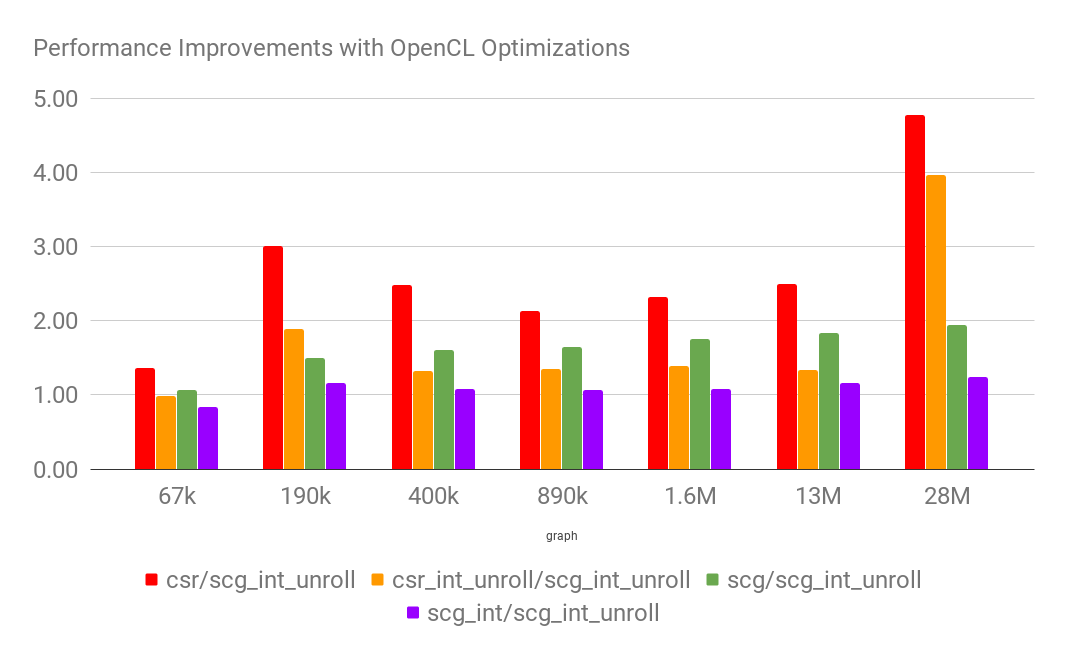
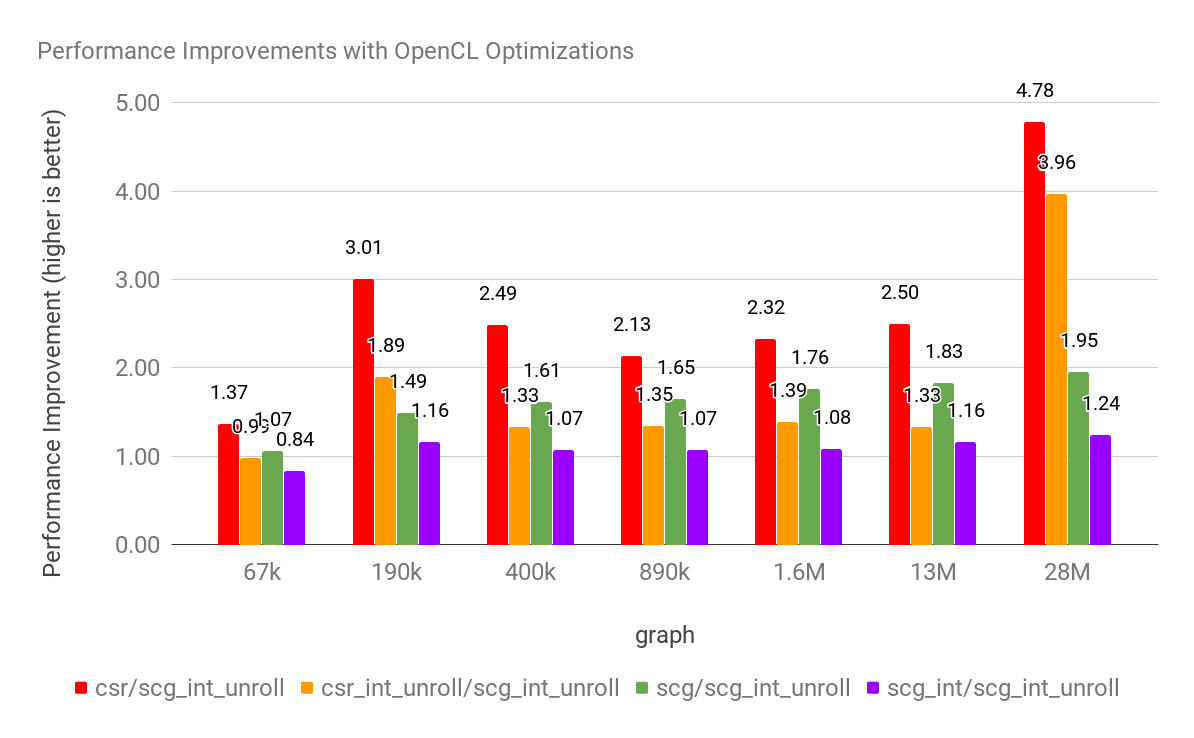
first draft

diff --git a/presentation.tex b/presentation.tex
@@ -578,52 +578,63 @@ Rensselaer Polytechnic Institute
 
 \begin{frame}
   \frametitle{Algorithms}
-\end{frame}
-
-\begin{frame}
-  \frametitle{Example}
-  Our current N-Graph data structure is two sets of compressed sparse row (CSR)
-  structures
+  The following variations of BFS were tested
+  \begin{itemize}
+    \item push - C++ serial push
+    \item pull - C++ serial `pull' style vtx$\rightarrow$hyperedge
+    \item csr - OpenCL parallel `pull' style vtx$\rightarrow$hyperedge using CSR data
+      structure
+    \item scg - OpenCL parallel `pull' style vtx$\rightarrow$hyperedge using
+      Sell-C-Sigma data structure
+    \item \texttt{*\_int} - use 4B int for adjacency and degree lists instead of 8B long
+    \item \texttt{*\_unroll} - unroll the loop over hyperedges
+  \end{itemize}
   \begin{figure}
     \centering
-    \includegraphics[width=.4\textwidth]{figures/hypergraph.eps}
-  \end{figure}  
-  {\tiny
-  \begin{table}[]
-    \centering
-    \label{my-label}
-    \begin{tabular}{llllllllll}
-      vtx id                 & 0     & 1     & 2     & 3       & 4         & 5     & 6   & 7   &    \\
-      vtx-to-net offsets     & 0     & 1     & 4     & 7       & 9         & 14    & 15  & 17  & 19 \\
-      vtx-to-net adjacencies & a     & a,b,c & a,b,d & c,e     & b,c,d,e,f & d     & e,f & d,f &    \\
-      \hline
-      net id                 & a     & b     & c     & d       & e         & f     &     &     &    \\
-      net-to-vtx offsets     & 0     & 3     & 5     & 8       & 12        & 15    & 18  &     &    \\
-      net-to-vtx adjacencies & 0,1,2 & 1,2   & 1,3,4 & 2,4,5,7 & 3,4,6     & 4,6,7 &     &     &   
-    \end{tabular}
-  \end{table}
-  }
+    \includegraphics[width=.6\textwidth]{figures/sellcsigma.png}\\
+    \small{Sell-C-Sigma data structure (Besta and Merending, et al.)}
+  \end{figure}
 \end{frame}
 
 \begin{frame}
   \frametitle{Test Hypergraphs}
-  Hypergraphs created from unstructured tet meshes: \\
+  Hypergraphs created from unstructured tet mesh of automotive part: \\
   mesh elements $\rightarrow$ graph vertices \\
   mesh vertices $\rightarrow$ hyperedges
-  \begin{table}[]
-    \centering
-    \label{my-label}
-    \begin{tabular}{lrrrr}
-      graph & vertices & hyperedges & bfs levels & max frontier  \\
-      67k   & 66433    & 15697      & 25         & 4432          \\
-      190k  & 192728   & 40052      & 40         & 7992          \\
-      400k  & 404613   & 88651      & 48         & 17316         \\
-      890k  & 890925   & 187380     & 70         & 26664         \\
-      1.6M  & 1580611  & 336215     & 82         & 45268         \\
-      13M   & 12831104 & 2499193    & 82         & 95798         \\
-      28M   & 27943315 & 5190006    & 210        &
-    \end{tabular}
-  \end{table}
+  \begin{columns}
+
+    \begin{column}{0.5\textwidth}
+      \begin{figure}
+        \centering
+        \includegraphics[width=.6\textwidth]{figures/upright400k.png}\\
+        400k element mesh
+      \end{figure}
+    \end{column}
+
+    \begin{column}{0.55\textwidth}
+      \tiny
+      \begin{table}[]
+        \centering
+        \begin{tabular}{lrrrr}
+          graph & vertices & hyperedges & bfs levels & max frontier  \\
+          67k   & 66433    & 15697      & 25         & 4432          \\
+          190k  & 192728   & 40052      & 40         & 7992          \\
+          400k  & 404613   & 88651      & 48         & 17316         \\
+          890k  & 890925   & 187380     & 70         & 26664         \\
+          1.6M  & 1580611  & 336215     & 82         & 45268         \\
+          13M   & 12831104 & 2499193    & 82         & 95798         \\
+          28M   & 27943315 & 5190006    & 210        &
+        \end{tabular}\\
+        \small{Hypergraphs}
+      \end{table}
+      \begin{figure}
+        \vspace*{-.5cm}
+        \centering
+        \includegraphics[width=.85\textwidth]{results/frontsize/{scgopencl_chunk64_13M.frontsize}.png}
+      \end{figure}
+    \end{column}
+
+  \end{columns}
 \end{frame}
 
 \begin{frame}
@@ -632,8 +643,9 @@ Rensselaer Polytechnic Institute
   \begin{itemize}
     \item Includes data transfers, but not kernel JIT compilation
     \item The average of three runs is used for the comparison
-    \item Higher is better - e.g., scg\_int\_unroll is $\sim$five times faster than csr on 28M graph
-    \item scg\_int\_unroll is up to 11 times faster than serial push on Intel Xeon
+    \item \texttt{scg\_int\_unroll} is 4.78 times faster than csr on 28M graph and up to 
+      11 times faster than serial push on Intel Xeon (not shown); 33 GTEPS on 28M
+    \item Memory coalesing is critical; \texttt{csr\_int\_unroll/scg\_int\_unroll}
   \end{itemize}
   \begin{figure}
     \centering
@@ -654,11 +666,19 @@ Rensselaer Polytechnic Institute
   \item generalizing the diffusive load balancing algorithm for applications without an element-based unstructured mesh.
   \item improving the algorithm of key portions to improve overall runtime.
   \end{itemize}
-  The experiments show:
+  MPI tests show:
   \begin {itemize}
   \item EnGPar reduces the high mesh vertex imbalance from the 512Ki mesh from 1.53 to 1.13.
   \item EnGPar maintains the mesh element imbalance at the tolerance.
   \item EnGPar runs around 33\% faster than ParMA.
+  \end{itemize}
+  Initial acceleration tests indicate:
+  \begin {itemize}
+  \item Utilizing known degree of downward adjacencies enables
+    loop unrolling and improved load balance
+  \item Accelerating other EnGPar graph methods could provide significant performance
+    improvements $\rightarrow$ code rewrite
+  \item Untuned GPU kernel on FPGA is slower and uses more power than GPU...
   \end{itemize}
 \end{frame}
 
@@ -666,8 +686,7 @@ Rensselaer Polytechnic Institute
   \frametitle{Future Work}
   Expanding the capabilities of EnGPar:
   \begin{itemize}
-    \item Improve partitioning at very high part count.
-    \item Improve performance of the balancing procedures using accelerators.
+    \item Improve partitionin quality at very high part count
   \end{itemize}
   Acceleration
   \begin{itemize}
@@ -722,7 +741,7 @@ Rensselaer Polytechnic Institute
   \begin{itemize}
     \item Includes data transfers, but not kernel JIT compilation
     \item The average of three runs is used for the comparison
-    \item Higher is better - e.g., scg\_int\_unroll is $\sim$five times faster than csr on 28M graph
+    \item Higher is better
   \end{itemize}
   \begin{figure}
     \centering
@@ -745,8 +764,96 @@ Rensselaer Polytechnic Institute
   \end{itemize}
 \end{frame}
 
+\begin{frame}
+  \frametitle{Example of N-Graph CSR}
+  Our current N-Graph data structure is two sets of compressed sparse row (CSR)
+  structures
+  \begin{figure}
+    \centering
+    \includegraphics[width=.4\textwidth]{figures/hypergraph.eps}
+  \end{figure}  
+  {\tiny
+  \begin{table}[]
+    \centering
+    \label{my-label}
+    \begin{tabular}{llllllllll}
+      vtx id                 & 0     & 1     & 2     & 3       & 4         & 5     & 6   & 7   &    \\
+      vtx-to-net offsets     & 0     & 1     & 4     & 7       & 9         & 14    & 15  & 17  & 19 \\
+      vtx-to-net adjacencies & a     & a,b,c & a,b,d & c,e     & b,c,d,e,f & d     & e,f & d,f &    \\
+      \hline
+      net id                 & a     & b     & c     & d       & e         & f     &     &     &    \\
+      net-to-vtx offsets     & 0     & 3     & 5     & 8       & 12        & 15    & 18  &     &    \\
+      net-to-vtx adjacencies & 0,1,2 & 1,2   & 1,3,4 & 2,4,5,7 & 3,4,6     & 4,6,7 &     &     &   
+    \end{tabular}
+  \end{table}
+  }
+\end{frame}
+
+\begin{frame}{BFS SCG Kernel and Loop}
+  \begin{columns}
+    \begin{column}{0.5\textwidth}
+      Kernel:
+      \begin{figure}
+        \centering
+        \includegraphics[width=\textwidth]{figures/bfsScgKernelp1.png}
+      \end{figure}  
+    \end{column}
+    \begin{column}{0.5\textwidth}
+      \begin{figure}
+        \vspace*{-2cm}
+        \centering
+        \includegraphics[width=\textwidth]{figures/bfsScgKernelp2.png}
+      \end{figure}  
+      Loop:
+      \begin{figure}
+        \centering
+        \includegraphics[width=\textwidth]{figures/kernelLoop.png}
+      \end{figure}  
+    \end{column}
+  \end{columns}
+\end{frame}
 
 
+\begin{frame}{Power Consumption scg\_int\_unroll}
+  \begin{table}[]
+    \centering
+    \begin{tabular}{lrrr}
+      device & 1080ti               & Arria 10             &               \\
+      graph & total power (W)      & total power (W)      & arria10/1080i \\
+      67k   & 1.17                 & 0.52                 & 0.45          \\
+      190k  & 1.59                 & 1.86                 & 1.17          \\
+      400k  & 1.68                 & 4.40                 & 2.61          \\
+      890k  & 3.46                 & 13.07                & 3.78          \\
+      1.6M  & 5.64                 & 26.48                & 4.69          \\
+      13M   & 60.50                & 488.22               & 8.07          \\
+      28M   & 151.32               & 1535.60              & 10.15
+    \end{tabular}
+  \end{table}
+  Based on GPU draw of 215W and FPGA draw of 30W\\
+  Measured with \texttt{nvidia-smi} and \texttt{aocl\_mmd\_getinfo}
+\end{frame}
+
+
+\begin{frame}{Run time}
+  \begin{table}[]
+    \small
+    \centering
+    \begin{tabular}{lrrrr}
+      device & i7           & 1080ti               & Arria 10             & i3                   \\
+      C &              & 64                   & 64                   & 64                   \\
+      graph & push bfs (s) & scg\_int\_unroll (s) & scg\_int\_unroll (s) & scg\_int\_unroll (s) \\
+      67k   & 0.011        & 0.005                & 0.017                & 0.013                \\
+      190k  & 0.037        & 0.007                & 0.062                & 0.069                \\
+      400k  & 0.076        & 0.008                & 0.147                & 0.150                \\
+      890k  & 0.169        & 0.016                & 0.436                & 0.530                \\
+      1.6M  & 0.292        & 0.026                & 0.883                & 1.196                \\
+      13M   & 2.535        & 0.281                & 16.274               & 22.727               \\
+      28M   & 5.639        & 0.704                & 51.187               & OOM                 
+    \end{tabular}
+  \end{table}
+  Includes data transfers, but not kernel JIT compilation\\
+  The average of three runs is used for the comparison
+\end{frame}
 
 \end{document}
 
